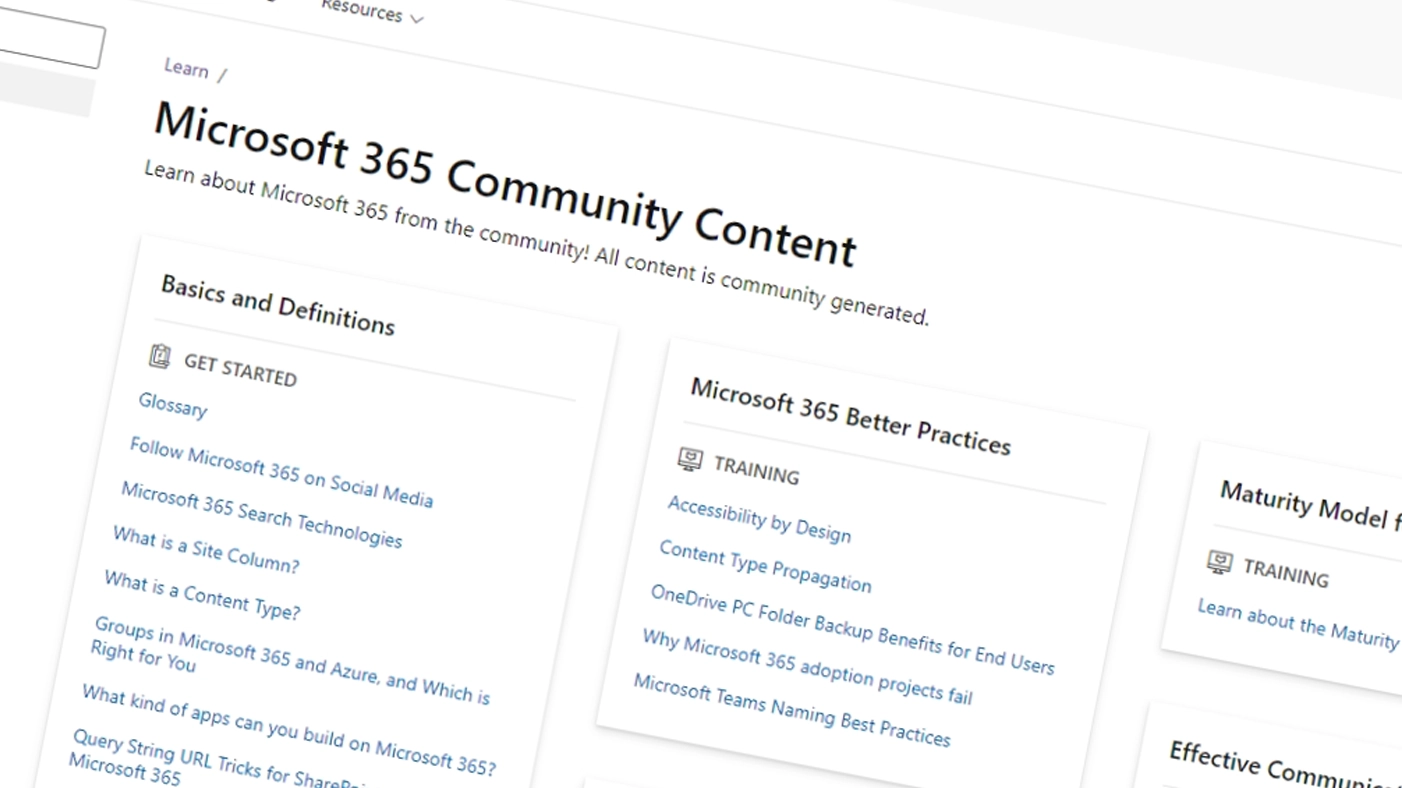
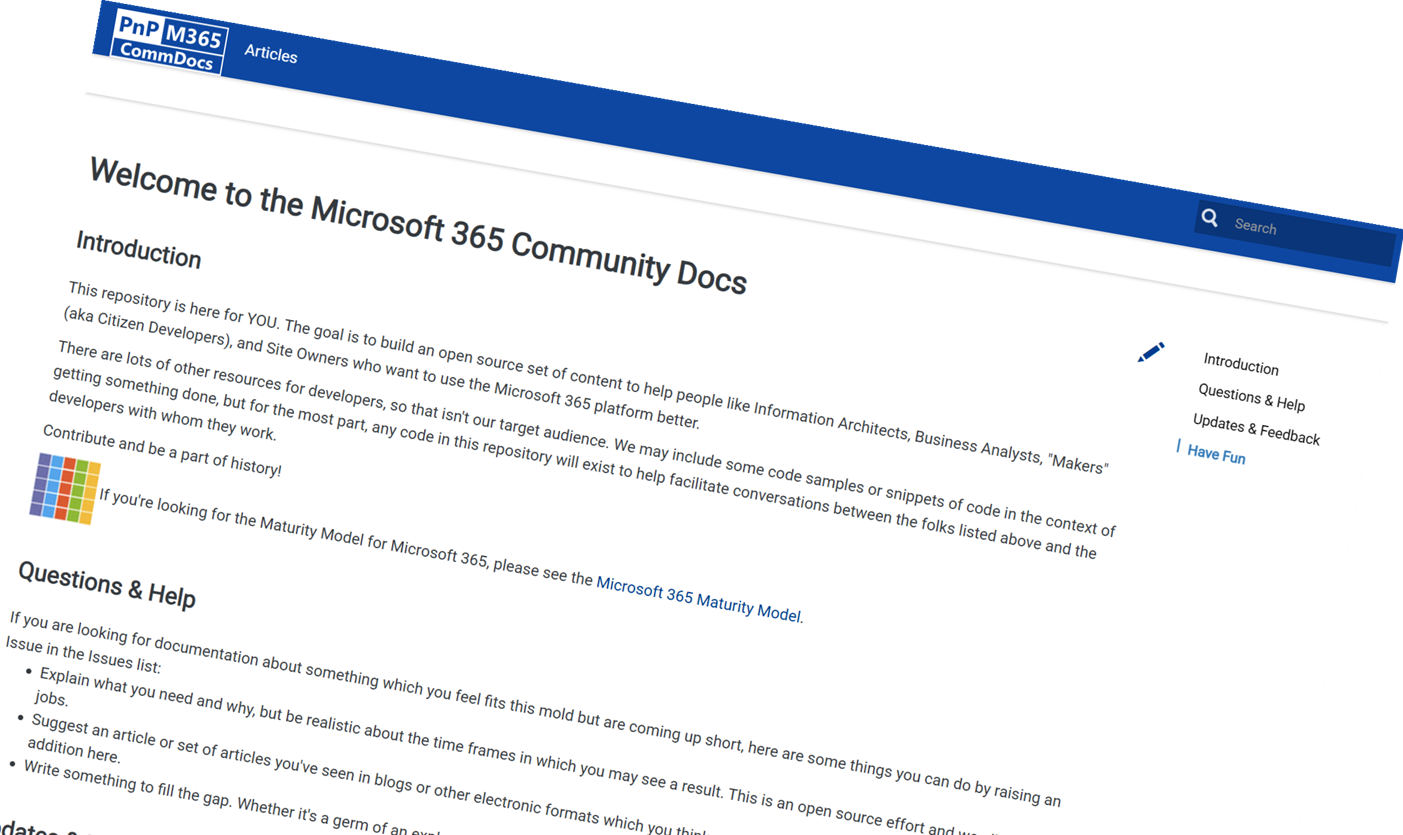
Merge pull request #71 from sympmarc/main
Updated guidance images

Pull request: Updated guidance images

diff --git a/content/guidance/maturity-model.md b/content/guidance/maturity-model.md
@@ -1,6 +1,6 @@
 ---
 title: "Maturity Model for Microsoft 365"
 description: "The Maturity Model for Microsoft 365 is a framework that helps organizations assess and improve their adoption and usage of Microsoft 365 services."
-image: "images/guidance-background-m365-community-content.webp"
+image: "images/guidance-background-m365-maturity-model.webp"
 externalLink: "https://pnp.github.io/maturity-model/"
 ---